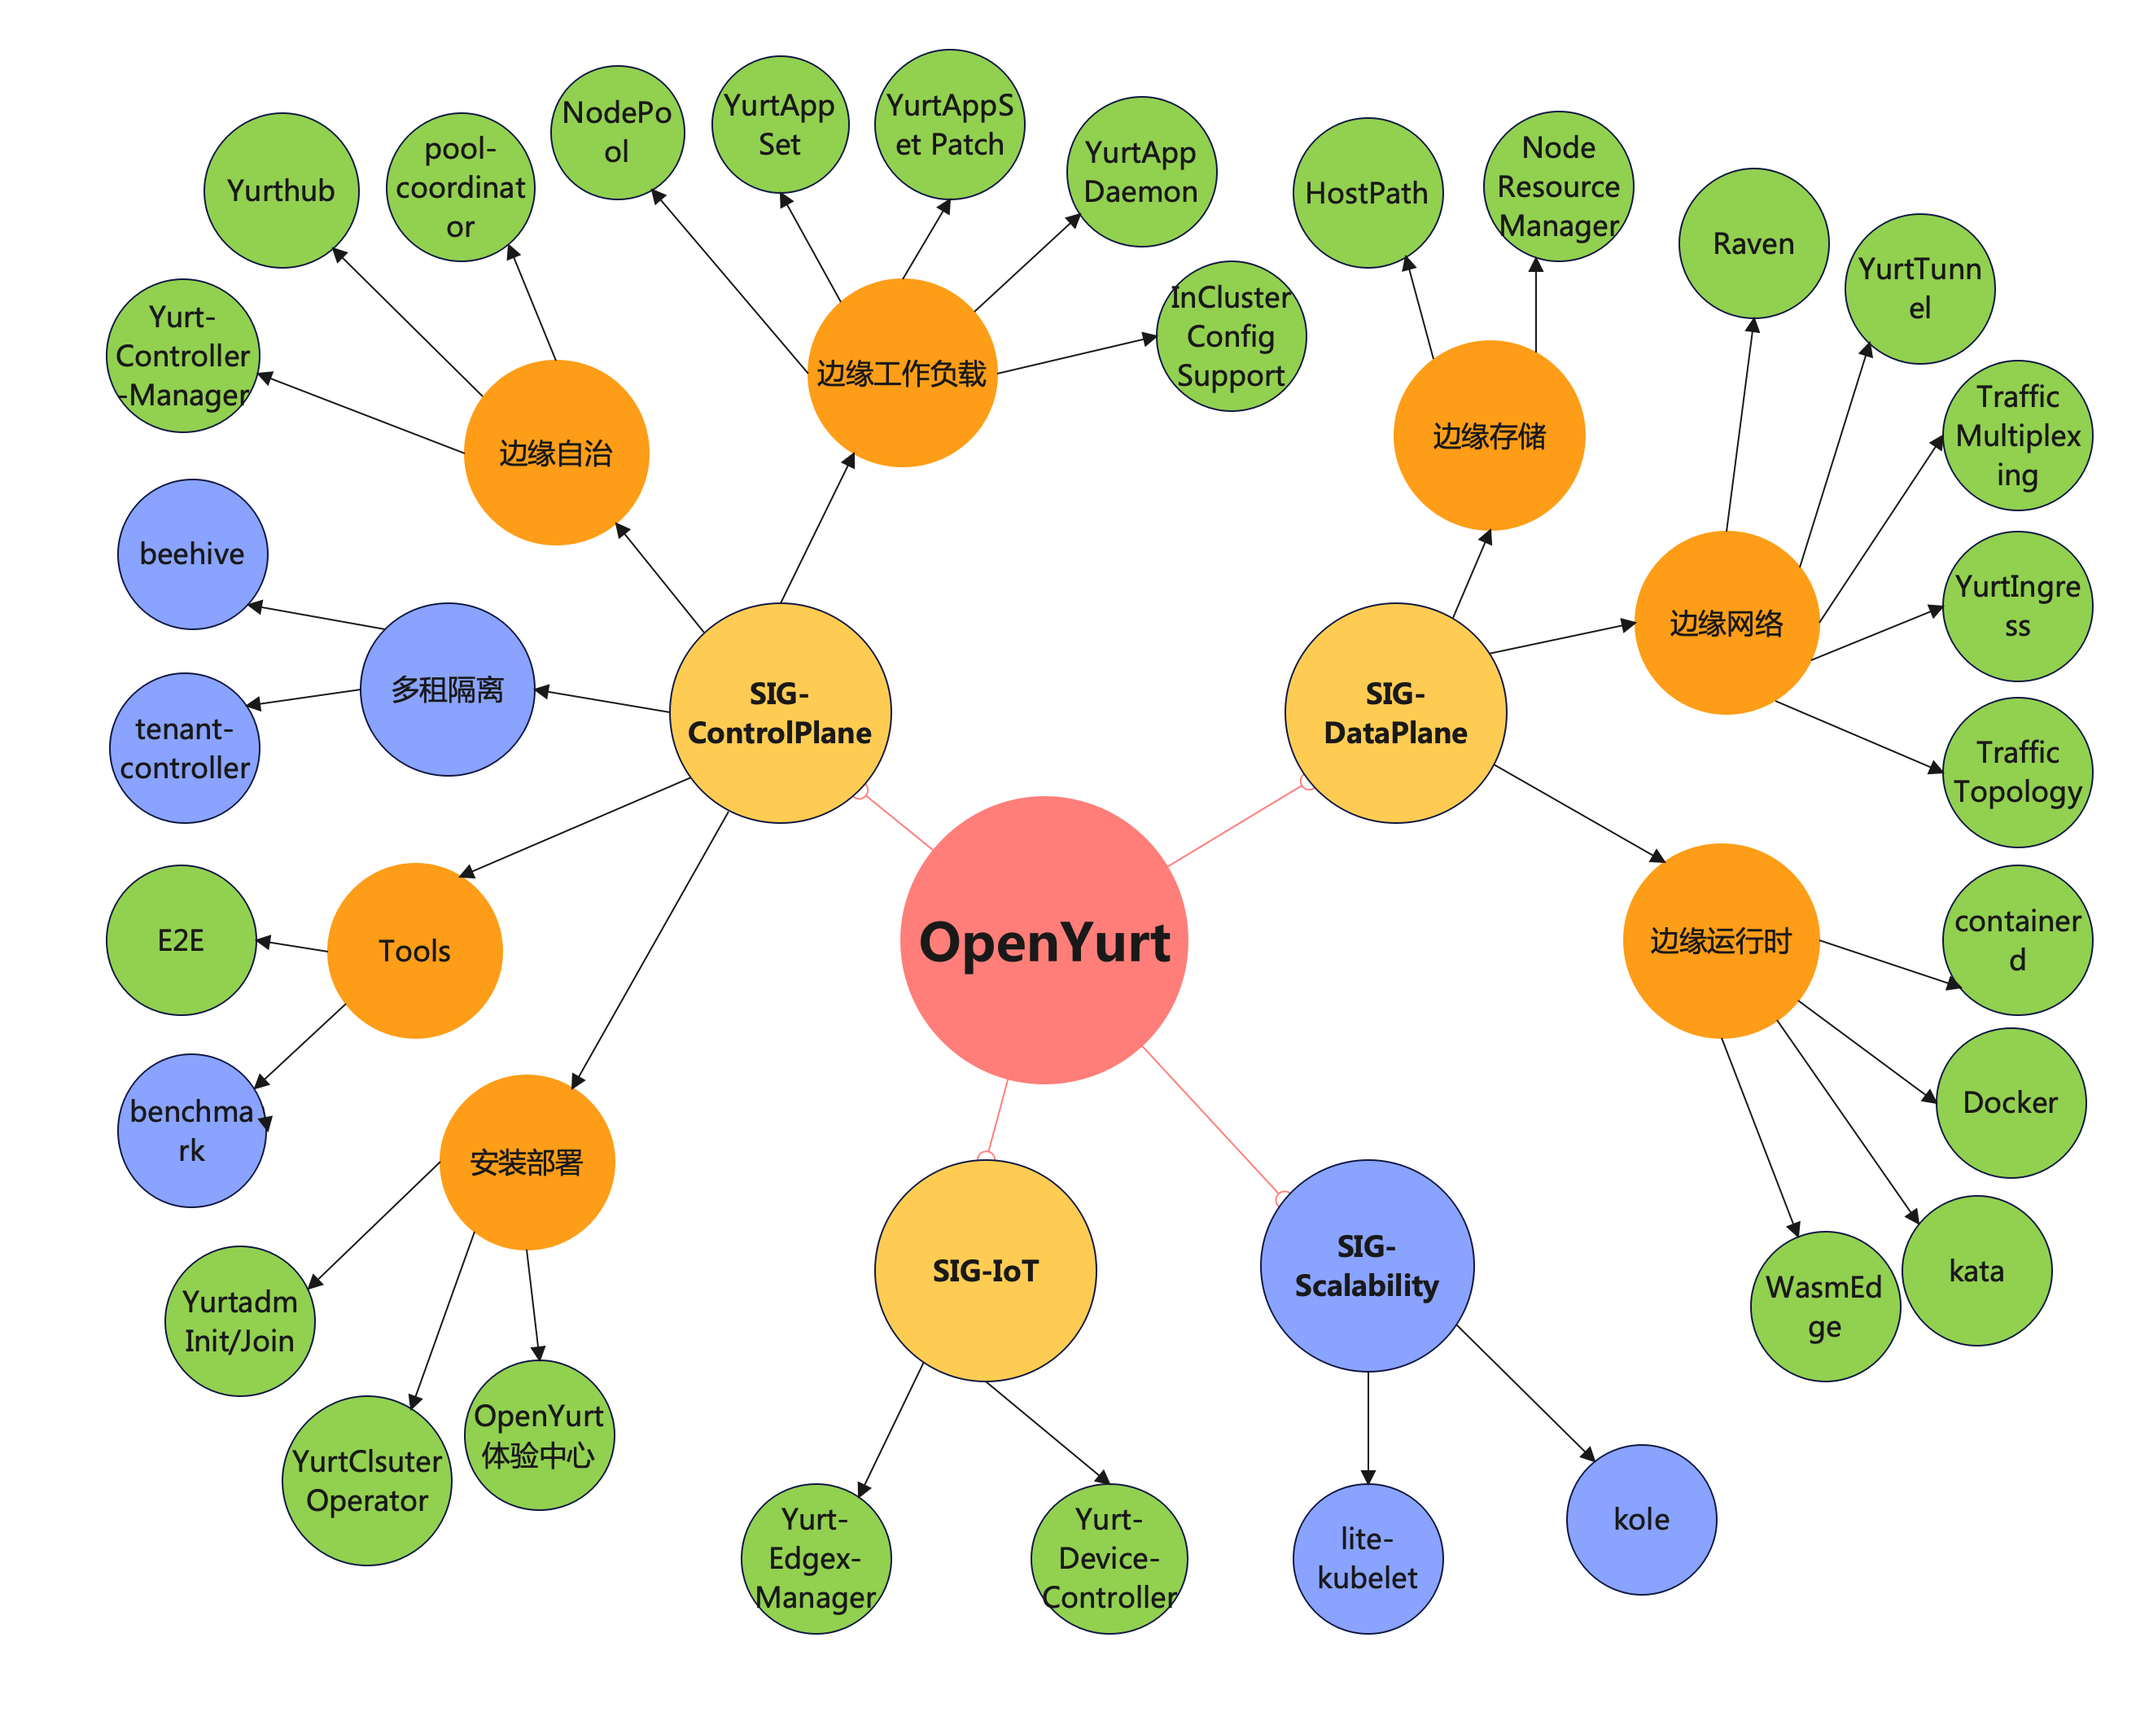
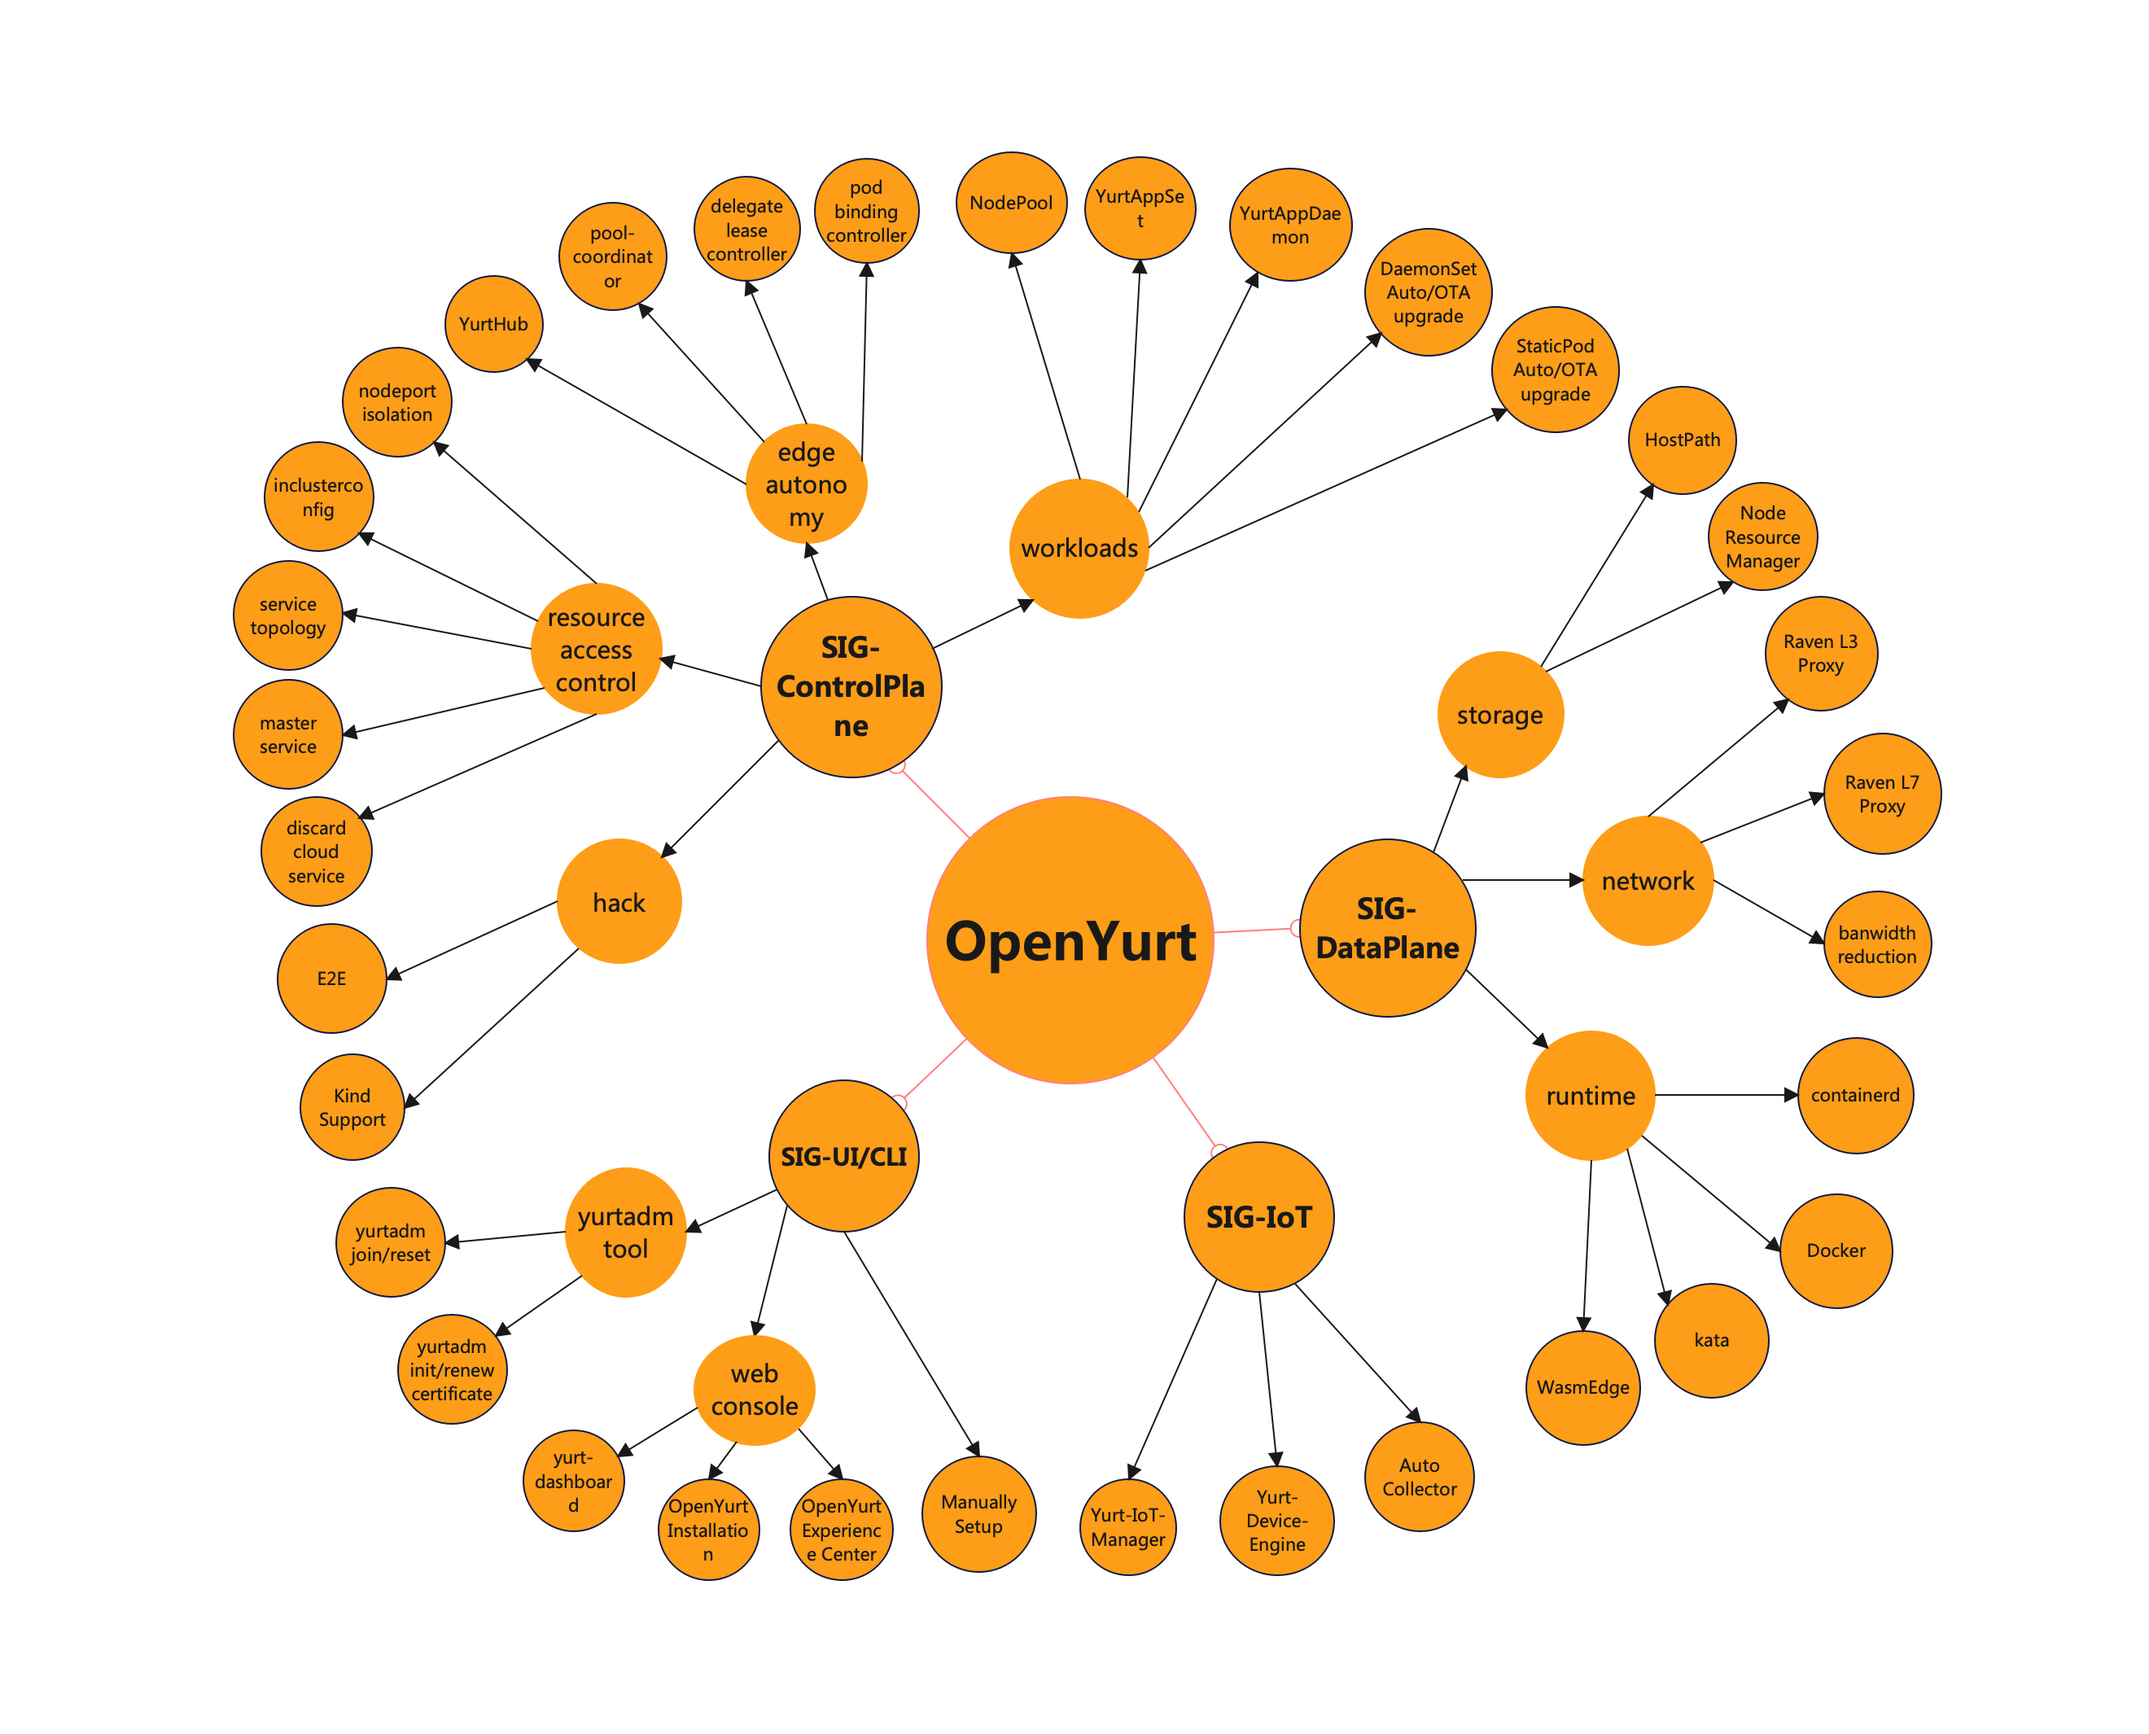
add sig ui/cli info

diff --git a/sig-list.md b/sig-list.md
@@ -10,44 +10,31 @@ SIGs' Goals are as following:
 
 ### SIGs List
 
-According to the current status of OpenYurt projects, initially we have launched 3 SIGs.
+According to the current status of OpenYurt projects, initially we have launched 4 SIGs.
 - ControlPlane
 - DataPlane
 - IoT
+- UI/CLI
 
 The projects included in each SIG are shown in the figure below:
 
 ![openyurt-sigs](docs/img/openyurt-sigs.png)
 
-* SIG Scalability is still under discussion.
-
 ### SIG Repos
 
 - ControlPlane
 
-[Yurt-Controller-Manager](https://github.com/openyurtio/openyurt/tree/master/cmd/yurt-controller-manager)
+[yurthub](https://github.com/openyurtio/openyurt/tree/master/cmd/yurthub)
 
-[Yurthub](https://github.com/openyurtio/openyurt/tree/master/cmd/yurthub)
-
-[NodePool/YurtAppSet/YurtAppDaemon](https://github.com/openyurtio/yurt-app-manager)
-
-[InClusterConfig Support](https://github.com/openyurtio/openyurt/tree/master/pkg/yurthub/filter/masterservice)
-
-[Yurtadm](https://github.com/openyurtio/openyurt/tree/master/cmd/yurtadm)
+[yurt-manager](https://github.com/openyurtio/openyurt/tree/master/cmd/yurt-manager)
 
 [E2E](https://github.com/openyurtio/openyurt/tree/master/test/e2e)
-
-[Yurt-Dashboard](https://github.com/openyurtio/yurt-dashboard)
 
 - DataPlane
 
 [Raven](https://github.com/openyurtio/raven)
 
-[YurtTunnel](https://github.com/openyurtio/openyurt/tree/master/pkg/yurttunnel)
-
-[YurtIngress](https://github.com/openyurtio/yurt-app-manager)
-
-[Traffic Topology](https://github.com/openyurtio/openyurt/tree/master/pkg/yurthub/filter/servicetopology)
+[Raven Controller Manager](https://github.com/openyurtio/openyurt/tree/master/pkg/controller/gateway)
 
 [Node Resource Manager](https://github.com/openyurtio/node-resource-manager)
 
@@ -57,11 +44,20 @@ The projects included in each SIG are shown in the figure below:
 
 [Yurt-Edgex-Manager](https://github.com/openyurtio/yurt-edgex-manager)
 
+- UI/CLI
+
+[Yurtadm](https://github.com/openyurtio/openyurt/tree/master/cmd/yurtadm)
+
+[Yurt-Dashboard](https://github.com/openyurtio/yurt-dashboard)
+
+[node servant](https://github.com/openyurtio/openyurt/tree/master/cmd/yurt-node-servant)
+
 ### SIG Leaders
 
-| SIG Name | Leaders | Meetings |
-| ---- | --------- | ----------- |
+| SIG Name         | Leaders                                                                                                                                                                                                                                      | Meetings |
+|------------------|----------------------------------------------------------------------------------------------------------------------------------------------------------------------------------------------------------------------------------------------| ----------- |
 | [ControlPlane]() | * [rambohe-ch](https://github.com/rambohe-ch), alibaba<br>* [Congrool](https://github.com/Congrool), ZheJiang University <br>* [donychen](https://github.com/donychen1134), meituan <br>* [huiwq1990](https://github.com/huiwq1990), jdcloud | [APAC Friendly Community meeting](https://calendar.google.com/calendar/u/0?cid=c3VudDRtODc2Y2c3Ymk3anN0ZDdkbHViZzRAZ3JvdXAuY2FsZW5kYXIuZ29vZ2xlLmNvbQ) |
-| [DataPlane]() | * [BSWANG](https://github.com/BSWANG), alibaba<br>* [zzguang](https://github.com/zzguang), Intel<br>* [Cookie](https://github.com/luckymrwang), inspur<br>* [JameKeal](https://github.com/JameKeal), Sangfor | [APAC Friendly Community meeting](https://calendar.google.com/calendar/u/0?cid=c3VudDRtODc2Y2c3Ymk3anN0ZDdkbHViZzRAZ3JvdXAuY2FsZW5kYXIuZ29vZ2xlLmNvbQ) |
-| [IoT]() | * [lwmqwer](https://github.com/lwmqwer), VMware<br>* [gnunu](https://github.com/gnunu), Intel<br>* [wawlian](https://github.com/wawlian), alibaba | [APAC Friendly Community meeting](https://calendar.google.com/calendar/u/0?cid=c3VudDRtODc2Y2c3Ymk3anN0ZDdkbHViZzRAZ3JvdXAuY2FsZW5kYXIuZ29vZ2xlLmNvbQ) |
+| [DataPlane]()    | * [BSWANG](https://github.com/BSWANG), alibaba<br>* [zzguang](https://github.com/zzguang), Intel<br>* [Cookie](https://github.com/luckymrwang), inspur<br>* [JameKeal](https://github.com/JameKeal), Sangfor                                 | [APAC Friendly Community meeting](https://calendar.google.com/calendar/u/0?cid=c3VudDRtODc2Y2c3Ymk3anN0ZDdkbHViZzRAZ3JvdXAuY2FsZW5kYXIuZ29vZ2xlLmNvbQ) |
+| [IoT]()          | * [lwmqwer](https://github.com/lwmqwer), VMware<br>* [gnunu](https://github.com/gnunu), Intel<br>* [wawlian](https://github.com/wawlian), alibaba                                                                                            | [APAC Friendly Community meeting](https://calendar.google.com/calendar/u/0?cid=c3VudDRtODc2Y2c3Ymk3anN0ZDdkbHViZzRAZ3JvdXAuY2FsZW5kYXIuZ29vZ2xlLmNvbQ) |
+| [UI/CLI]()       | * [luc99hen](https://github.com/luc99hen), TongJi University<br>* [YTGhost](https://github.com/YTGhost), ZheJiang University                                                                                                                 | [APAC Friendly Community meeting](https://calendar.google.com/calendar/u/0?cid=c3VudDRtODc2Y2c3Ymk3anN0ZDdkbHViZzRAZ3JvdXAuY2FsZW5kYXIuZ29vZ2xlLmNvbQ) |
 
